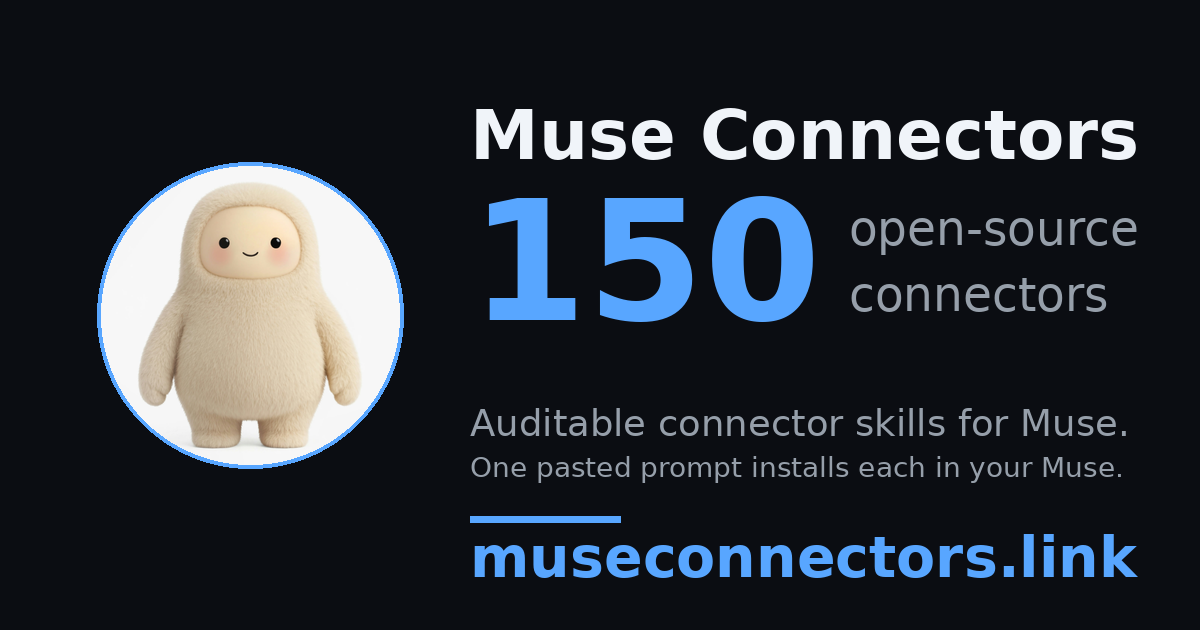
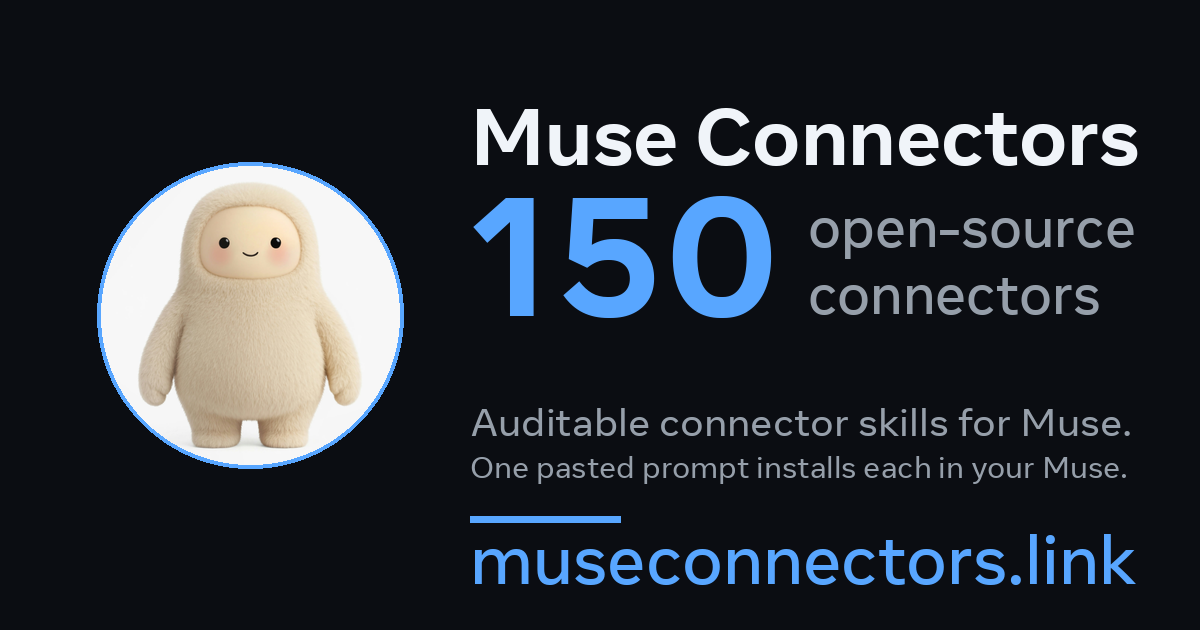
og-image: Meta Optimistic typeface from the Muse announcement page

diff --git a/tools/build-site.py b/tools/build-site.py
@@ -673,6 +673,41 @@ def build_og_image(count):
         return
     import math
 
+    FONTS_DIR = ROOT / "tools" / "fonts"
+    OPTIMISTIC = {
+        "display_bd": "Optimistic_Display_W_Bd",
+        "display_md": "Optimistic_Display_W_Md",
+        "text_rg": "Optimistic_Text_W_Rg",
+        "text_bd": "Optimistic_Text_W_Bd",
+    }
+    OPT_URL = ("https://about.fb.com/wp-content/themes/fbcorp/"
+               "fonts/optimistic/")
+
+    def ensure_optimistic():
+        """Fetch Meta's Optimistic webfonts (the typeface of the Muse
+        announcement page) and convert to TTF for PIL. Cached under
+        tools/fonts/, which is gitignored so the proprietary binaries
+        never land in the public repo."""
+        try:
+            FONTS_DIR.mkdir(exist_ok=True)
+            paths = {}
+            for key, name in OPTIMISTIC.items():
+                ttf = FONTS_DIR / f"{name}.ttf"
+                if not ttf.exists():
+                    import urllib.request
+                    woff2 = FONTS_DIR / f"{name}.woff2"
+                    urllib.request.urlretrieve(OPT_URL + name + ".woff2",
+                                               woff2)
+                    from fontTools.ttLib import TTFont
+                    f = TTFont(str(woff2))
+                    f.flavor = None
+                    f.save(str(ttf))
+                paths[key] = str(ttf)
+            return paths
+        except Exception as e:
+            print(f"warning: could not fetch Optimistic fonts ({e})")
+            return None
+
     def find_font(bold):
         candidates = [
             "/usr/share/fonts/truetype/dejavu/"
@@ -685,10 +720,19 @@ def build_og_image(count):
                 return c
         return None
 
-    fb_path, fr_path = find_font(True), find_font(False)
-    if not fb_path or not fr_path:
-        print("warning: no suitable fonts found, skipping og-image.png")
-        return
+    opt = ensure_optimistic()
+    if opt:
+        f_display_bd = opt["display_bd"]
+        f_display_md = opt["display_md"]
+        f_text_rg = opt["text_rg"]
+        f_text_bd = opt["text_bd"]
+    else:
+        fb, fr = find_font(True), find_font(False)
+        if not fb or not fr:
+            print("warning: no suitable fonts found, skipping og-image.png")
+            return
+        f_display_bd = f_display_md = f_text_bd = fb
+        f_text_rg = fr
     avatar_src = ROOT / "docs" / "avatar" / "hatch.jpg"
     if not avatar_src.exists():
         print("warning: docs/avatar/hatch.jpg missing, skipping og-image.png")
@@ -735,32 +779,35 @@ def build_og_image(count):
     right = 1140
     wordmark = "Muse Connectors"
     draw_at(x, 108, wordmark,
-            ImageFont.truetype(fb_path, size_for(wordmark, right - x, fb_path)),
+            ImageFont.truetype(f_display_bd,
+                               size_for(wordmark, right - x, f_display_bd)),
             TITLE_C)
 
     # hero number with stacked label
     num = str(count)
-    num_font = ImageFont.truetype(fb_path, 168)
+    num_font = ImageFont.truetype(f_display_bd, 168)
     num_w = d.textlength(num, font=num_font)
     draw_at(x, 196, num, num_font, BLUE)
     lx = x + num_w + 28
-    lab_font = ImageFont.truetype(fr_path,
-                                  size_for("open-source", right - lx, fr_path))
+    lab_font = ImageFont.truetype(f_display_md,
+                                  size_for("open-source", right - lx,
+                                           f_display_md))
     draw_at(lx, 218, "open-source", lab_font, BODY_C)
     draw_at(lx, 278, "connectors", lab_font, BODY_C)
 
     tag1 = "Auditable connector skills for Muse."
     draw_at(x, 408, tag1,
-            ImageFont.truetype(fr_path, size_for(tag1, right - x, fr_path)),
+            ImageFont.truetype(f_text_rg, size_for(tag1, right - x, f_text_rg)),
             BODY_C)
     tag2 = "One pasted prompt installs each in your Muse."
     draw_at(x, 456, tag2,
-            ImageFont.truetype(fr_path, size_for(tag2, right - x, fr_path)),
+            ImageFont.truetype(f_text_rg, size_for(tag2, right - x, f_text_rg)),
             BODY_C)
     d.rectangle((x, 516, x + 150, 522), fill=BLUE)
     url = "museconnectors.link"
     draw_at(x, 534, url,
-            ImageFont.truetype(fb_path, size_for(url, right - x, fb_path)),
+            ImageFont.truetype(f_display_md,
+                               size_for(url, right - x, f_display_md)),
             BLUE)
 
     out = ROOT / "docs" / "og-image.png"
